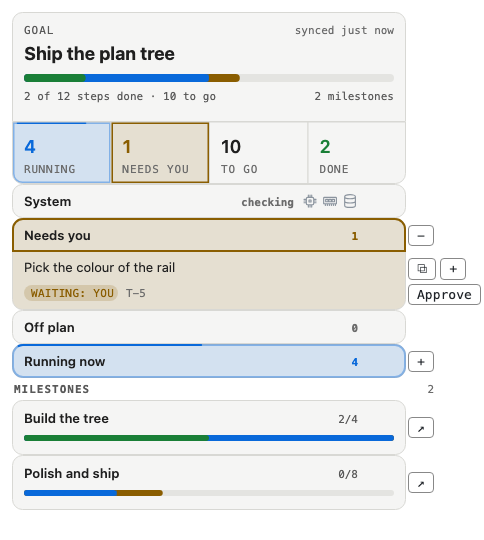
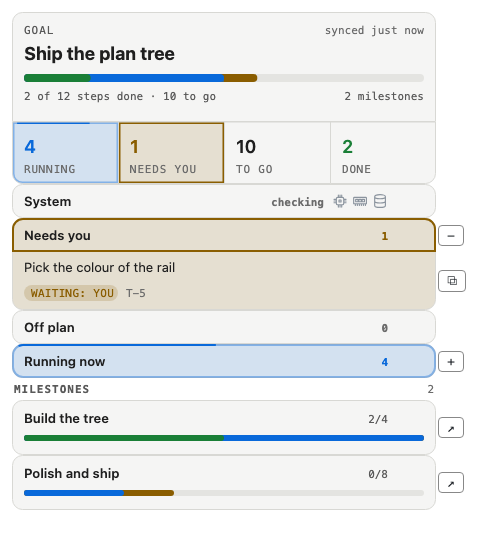
0.26.66: restore full-width cards; Approve is a checkmark button

diff --git a/hooks/register.tsx b/hooks/register.tsx
@@ -3126,10 +3126,10 @@ export function paneSvgTree($: EngineInterface, kit: Kit, bodyColumns: number, b
     const sideCol = (key: string, button: unknown, tall = false): unknown => button === null ? null : Box({ key: 'tog-' + key, position: 'absolute', top: 0, ...(tall ? { height: 2 } : { bottom: 0 }), right: 2, flexDirection: 'row', alignItems: 'center', children: [button] })
     const toggle = (key: string, isOpen: boolean, flag: string): unknown => sideCol(key, Button({ key: 'sec-' + key, label: isOpen ? '-' : '+', onPress: () => flip(flag) }))
     // Running and Waiting rows carry a copy button (and, when there is a note, the +/-) in one ACT_COLS column, so their cards are narrower by the same amount.
-    const wA = wL - 30
+    const wA = wL
     const copyBtn = (rid: string): unknown => rid === '' ? null : Button({ key: 'cp-' + rid, label: '\u29c9', onPress: press => { void $.ui.copy({ text: rid, surface: press.surface }).then(res => $.ui.toast(res.isCopied ? 'Copied ' + rid : 'Could not copy ' + rid + ': select the ID and copy it by hand')) } })
     // Approve answers the ask in the person's own words: "push" when the ask is about pushing local commits, otherwise "approve <ID>".
-    const approveBtn = (a: { id: string; ask: string; title: string }): unknown => Button({ key: 'ap-' + (a.id || a.title.slice(0, 20)), label: 'Approve', onPress: () => { void sendToCaptain($, approveText(a)) } })
+    const approveBtn = (a: { id: string; ask: string; title: string }): unknown => Button({ key: 'ap-' + (a.id || a.title.slice(0, 20)), label: '✓', onPress: () => { void sendToCaptain($, approveText(a)) } })
     const actCol = (key: string, btns: unknown[], tall = false): unknown => btns.every(b => b === null) ? null : Box({ key: 'tog-act-' + key, position: 'absolute', top: 0, ...(tall ? { height: 2 } : { bottom: 0 }), right: 2, flexDirection: 'row', alignItems: 'center', children: btns.filter(b => b !== null) })
     const toggleBtn = (key: string, isOpen: boolean, flag: string): unknown => Button({ key: 'sec-' + key, label: isOpen ? '-' : '+', onPress: () => flip(flag) })
     const put2 = (key: string, svg: string, alt: string, h: number, side: unknown = null, w = wL): void => {
@@ -3145,7 +3145,7 @@ export function paneSvgTree($: EngineInterface, kit: Kit, bodyColumns: number, b
     const needs = cardOf('needs')
     const asks = needs === undefined ? [] : waitingItems(v.waiting, youLines)
     {
-      const wF = wL - 30
+      const wF = wL
       const gap = (key: string): void => planBlocks.push({ key, el: Box({ key, height: 1, children: [] }), h: 1 })
       const t = titleCardSvg(wF, { title: v.milestone === '' ? 'Plan' : v.milestone, done: v.doneN, planned: v.planned, milestones: v.groups.length, synced: syncedText(v.updatedMs, now), running: shownPlan.running.length, needs: asks.length, joined: planUndo === null })
       planBlocks.push({ key: 'status-row', el: Box({ key: 'status-row', flexDirection: 'row', alignItems: 'center', children: [draw('svg-status', t.svg, planAlt(shownPlan), t.height, wF)] }), h: t.height })
@@ -3184,8 +3184,10 @@ export function paneSvgTree($: EngineInterface, kit: Kit, bodyColumns: number, b
           asks.forEach((a, i) => {
             const af = 'pw-' + (a.id !== '' ? a.id : a.title.slice(0, 40)).replace(/[^A-Za-z0-9._-]/g, '_')
             const aOpen = isSectionOpen(ui.sections, af)
+            setReserve(OVERLAY_PX * 3)
             const d = stepRowSvg(wA, { owner: 'you', title: a.title, id: a.id, note: a.ask, label: 'waiting: you', cls: 'warnc', time: '', open: aOpen, dim: false, shell: { rt: 0, rb: i === asks.length - 1 ? 10 : 0, first: false } })
-            put2('wait-' + (a.id || i), d.svg, a.title + (a.id !== '' ? ' (' + a.id + ')' : ''), d.height, Box({ key: 'tog-act-wait-' + (a.id || i), position: 'absolute', top: 0, bottom: 0, right: 2, flexDirection: 'column', justifyContent: 'center', alignItems: 'flex-end', children: [Box({ key: 'tog-act-wait-r1-' + (a.id || i), flexDirection: 'row', children: [copyBtn(a.id), a.ask === '' ? null : toggleBtn('wait-' + (a.id || i), aOpen, af)].filter(b => b !== null) }), approveBtn(a)] }), wA)
+            put2('wait-' + (a.id || i), d.svg, a.title + (a.id !== '' ? ' (' + a.id + ')' : ''), d.height, actCol('wait-' + (a.id || i), [copyBtn(a.id), a.ask === '' ? null : toggleBtn('wait-' + (a.id || i), aOpen, af), approveBtn(a)], true), wA)
+            setReserve(OVERLAY_PX)
           })
         }
       } else {
@@ -3252,7 +3254,7 @@ export function paneSvgTree($: EngineInterface, kit: Kit, bodyColumns: number, b
       planBlocks.push({ key: 'mile-tabs', el: Box({ key: 'mile-tabs', flexDirection: 'row', paddingX: 1, columnGap: 1, children: [tabBtn('open', 'Open'), tabBtn('done', 'Done'), tabBtn('all', 'All')] }), h: ROW_PX * 1.5 })
       gapH('gap-mile-tabs')
       const rows = grp.rows.filter(r => mileTab === 'all' || (mileTab === 'done' ? r.state === 'done' : r.state !== 'done'))
-      const wB = wL - 30
+      const wB = wL
       const md = mileCardSvg(wB, { title: drilled.title, done: grp.done, total: grp.total, running: rows.filter(r => r.state === 'running').length, needs: rows.filter(r => r.state === 'blocked' && r.onYou).length, shell: rows.length > 0 ? { rt: 10, rb: 0, first: true } : ALONE })
       put2('mp-card', md.svg, drilled.title + ': ' + drilled.countText, md.height, actCol('mp-card', []), wB)
       if (rows.length === 0) line2('mp-empty', mileTab === 'done' ? 'Nothing done yet' : mileTab === 'open' ? 'Nothing open' : 'No steps yet', 'm')

diff --git a/tools/panepage.ts b/tools/panepage.ts
@@ -63,7 +63,7 @@ for (const theme of ['dark', 'light'] as const) {
   for (const [name, open] of scenes) {
     planNow = name === 'quiet' ? planQuiet : plan
     set(open)
-    const page = `<!doctype html><meta charset=utf-8><style>body{margin:0;padding:12px;background:${bg};color:${fg};font:13px -apple-system,Helvetica,sans-serif;width:${W + 40}px}.svg{line-height:0}.svg svg{display:block}.b{font:13px monospace;margin:2px;padding:2px 8px;border:1px solid #888;background:transparent;color:${fg};border-radius:4px}.b.plain{border:0}.box{width:100%}</style>${html(draw(), true)}`
+    const page = `<!doctype html><meta charset=utf-8><style>body{margin:0;padding:12px;background:${bg};color:${fg};font:13px -apple-system,Helvetica,sans-serif;width:${W + 76}px}.svg{line-height:0}.svg svg{display:block}.b{font:13px monospace;margin:2px;padding:2px 8px;border:1px solid #888;background:transparent;color:${fg};border-radius:4px}.b.plain{border:0}.box{width:100%}</style>${html(draw(), true)}`
     const f = join(SHOTS, `pane-${name}-${theme}.html`)
     writeFileSync(f, page)
     spawnSync(CHROME, ['--headless=new', '--disable-gpu', '--hide-scrollbars', `--window-size=${W + 64},1900`, `--screenshot=${join(SHOTS, `pane-${name}-${theme}.png`)}`, 'file://' + f], { stdio: 'ignore' })

diff --git a/docs/CHANGELOG.md b/docs/CHANGELOG.md
@@ -1,5 +1,9 @@
 # Changelog
 
+## 0.26.66
+
+- Cards are back to their full width (0.26.65 narrowed them). Approve is now a plain checkmark button beside copy and +/- on each Needs-you row.
+
 ## 0.26.65
 
 - Needs-you rows get a copy button, a +/- button that shows the ask, and an Approve button that sends "push" to the captain when the ask is about a push, else "approve <ID>".
